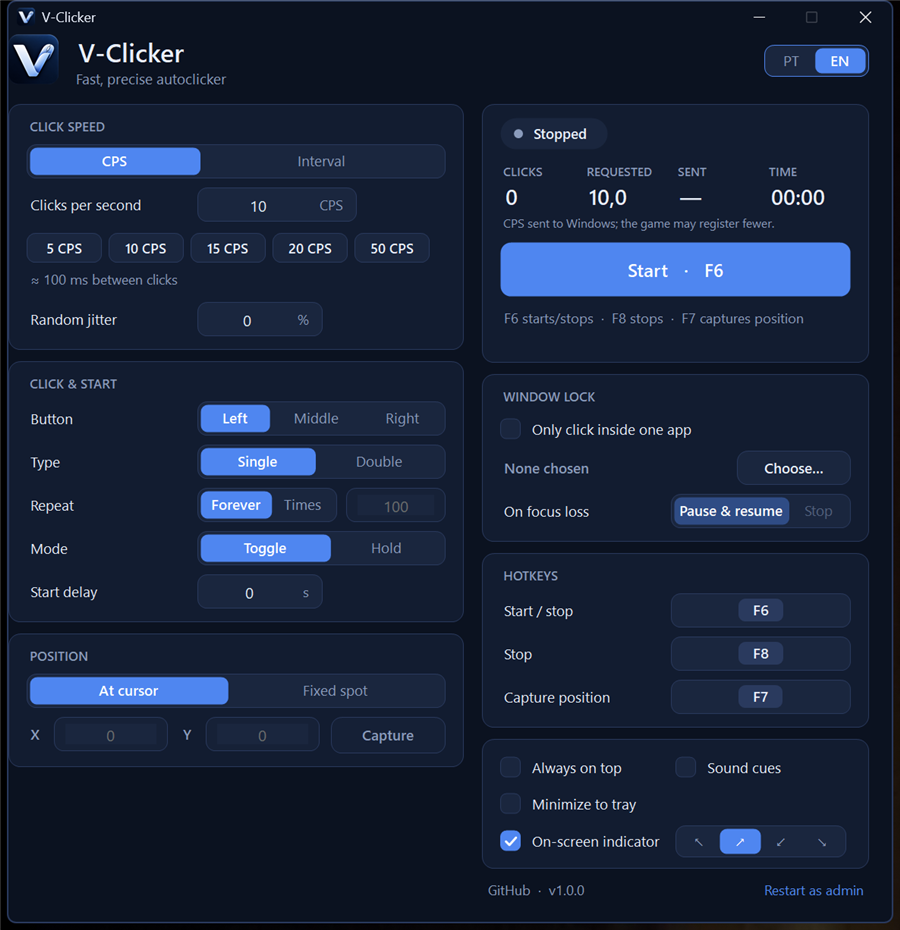
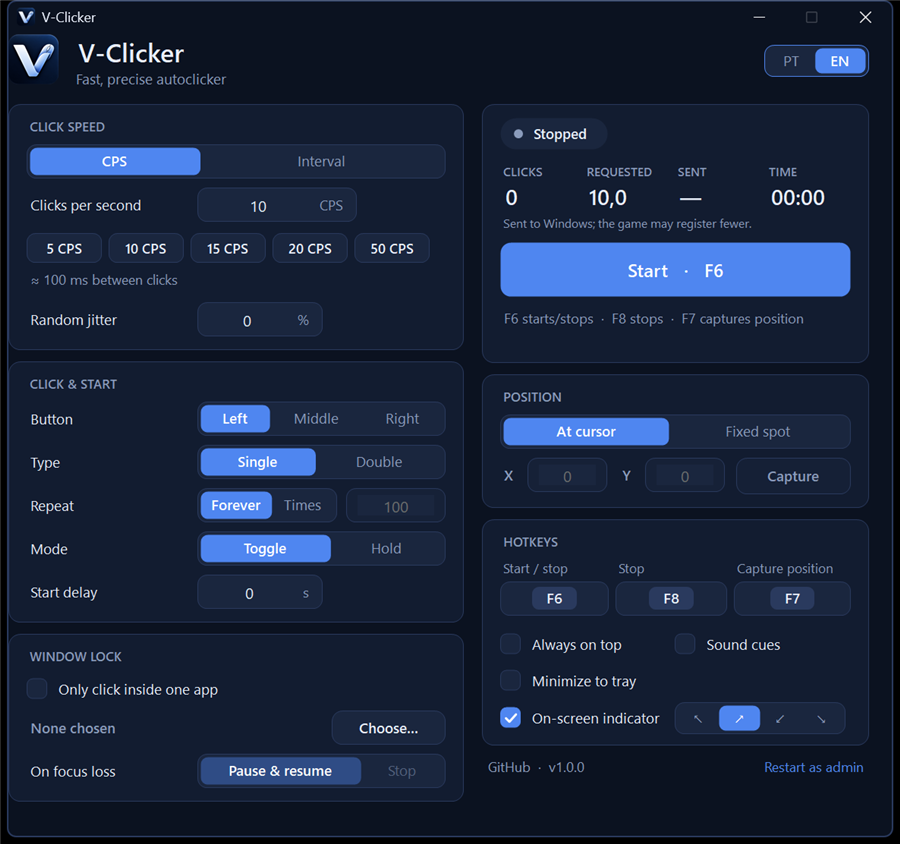
Fit the window on 1366x768 screens: one-row hotkeys, merged settings card, Window Lock card on the left
CI's 1024x720 runner showed the window had grown to 788 px tall.

diff --git a/src/MainForm.cs b/src/MainForm.cs
@@ -332,7 +332,7 @@ namespace VClicker
             column.BackColor = Theme.Bg;
             Row(column, BuildIntervalCard());
             Row(column, BuildClickCard());
-            Row(column, BuildPositionCard());
+            Row(column, BuildLockCard());
             AddFiller(column);
             return column;
         }
@@ -587,9 +587,8 @@ namespace VClicker
             Grid column = Table("100%");
             column.BackColor = Theme.Bg;
             Row(column, BuildStatusCard());
-            Row(column, BuildLockCard());
-            Row(column, BuildHotkeysCard());
-            Row(column, BuildOptionsCard());
+            Row(column, BuildPositionCard());
+            Row(column, BuildSettingsCard());
             Row(column, BuildFooter());
             AddFiller(column);
             return column;
@@ -612,6 +611,7 @@ namespace VClicker
             Label sentNote = Lbl("stat.note", 8f, dim: true);
             sentNote.Margin = Theme.Pad(0, 0, 0, 10);
             sentNote.MaximumSize = new Size(Theme.Dp(300), 0);
+            Localize(() => tips.SetToolTip(sentNote, Loc.T("stat.note.tip")));
             FullRow(body, sentNote);
 
             startButton = new FlatButton
@@ -648,9 +648,13 @@ namespace VClicker
             return tile;
         }
 
-        private Control BuildHotkeysCard()
+        /// <summary>
+        /// Hotkeys and options in one card (one header and padding fewer keeps the window laptop-sized).
+        /// One grid, no nesting: 33 / 17 / 17 / 33 % columns give three equal hotkey cells and two equal option cells.
+        /// </summary>
+        private Control BuildSettingsCard()
         {
-            Grid body = Table(LabelColumn, "100%");
+            Grid body = Table("33%", "17%", "17%", "33%");
             FullRow(body, Title("card.hotkeys"));
 
             hkToggle = Hk(IdToggle);
@@ -662,16 +666,11 @@ namespace VClicker
             hkToggle.ValueChanged += OnHotkeyChanged;
             hkStop.ValueChanged += OnHotkeyChanged;
             hkCapture.ValueChanged += OnHotkeyChanged;
-            Row(body, RowLabel("hk.toggle"), hkToggle);
-            Row(body, RowLabel("hk.stop"), hkStop);
-            Row(body, RowLabel("hk.capture"), hkCapture);
+            hkToggle.Margin = hkStop.Margin = Theme.Pad(0, 0, 6, 12);
+            hkCapture.Margin = Theme.Pad(0, 0, 0, 12);
+            Thirds(body, HotkeyCaption("hk.toggle"), HotkeyCaption("hk.stop"), HotkeyCaption("hk.capture"));
+            Thirds(body, hkToggle, hkStop, hkCapture);
 
-            return NewCard(body);
-        }
-
-        private Control BuildOptionsCard()
-        {
-            Grid body = Table("50%", "50%");
             chkTop = Check("opt.top");
             chkSounds = Check("opt.sounds");
             chkTray = Check("opt.tray");
@@ -679,14 +678,35 @@ namespace VClicker
             Localize(() => tips.SetToolTip(chkHud, Loc.T("opt.hud.tip")));
             segHudCorner = new Segmented
             {
-                Items = new[] { "\u2196", "\u2197", "\u2199", "\u2198" }, Size = Theme.Sz(150, 28), Anchor = AnchorStyles.Left,
+                Items = new[] { "↖", "↗", "↙", "↘" }, Size = Theme.Sz(150, 28), Anchor = AnchorStyles.Left,
                 Margin = Theme.Pad(0, 0, 0, 6), AccessibleName = "Indicator corner"
             };
             segHudCorner.SelectedChanged += OnConfigChanged;
-            Row(body, chkTop, chkSounds);
+            Halves(body, chkTop, chkSounds);
             FullRow(body, chkTray);
-            Row(body, chkHud, segHudCorner);
+            Halves(body, chkHud, segHudCorner);
             return NewCard(body);
+        }
+
+        private static void Thirds(TableLayoutPanel table, Control a, Control b, Control c)
+        {
+            Row(table, a, b, null, c);
+            table.SetColumnSpan(b, 2);
+        }
+
+        private static void Halves(TableLayoutPanel table, Control a, Control b)
+        {
+            Row(table, a, null, b);
+            table.SetColumnSpan(a, 2);
+            table.SetColumnSpan(b, 2);
+        }
+
+        private Label HotkeyCaption(string key)
+        {
+            Label label = Lbl(key, 8.5f, dim: true);
+            label.Margin = Theme.Pad(0, 0, 4, 4);
+            label.AutoEllipsis = true;
+            return label;
         }
 
         private DarkCheck Check(string key)

diff --git a/src/Loc.cs b/src/Loc.cs
@@ -46,7 +46,8 @@ namespace VClicker
             ["stat.requested"] = new[] { "SOLICITADO", "REQUESTED" },
             ["stat.sent"] = new[] { "ENVIADO", "SENT" },
             ["stat.time"] = new[] { "TEMPO", "TIME" },
-            ["stat.note"] = new[] { "Cliques e CPS enviados ao Windows (duplo conta 1); o jogo pode reconhecer menos.", "Clicks and CPS sent to Windows (a double click counts as 1); the game may register fewer." },
+            ["stat.note"] = new[] { "Enviados ao Windows; o jogo pode reconhecer menos.", "Sent to Windows; the game may register fewer." },
+            ["stat.note.tip"] = new[] { "Cliques e CPS contam o que o Windows aceitou (um clique duplo conta 1). O V-Clicker não sabe quantos o jogo reconheceu.", "Clicks and CPS count what Windows accepted (a double click counts as 1). V-Clicker cannot know how many the game registered." },
 
             // interval
             ["card.interval"] = new[] { "VELOCIDADE DOS CLIQUES", "CLICK SPEED" },
